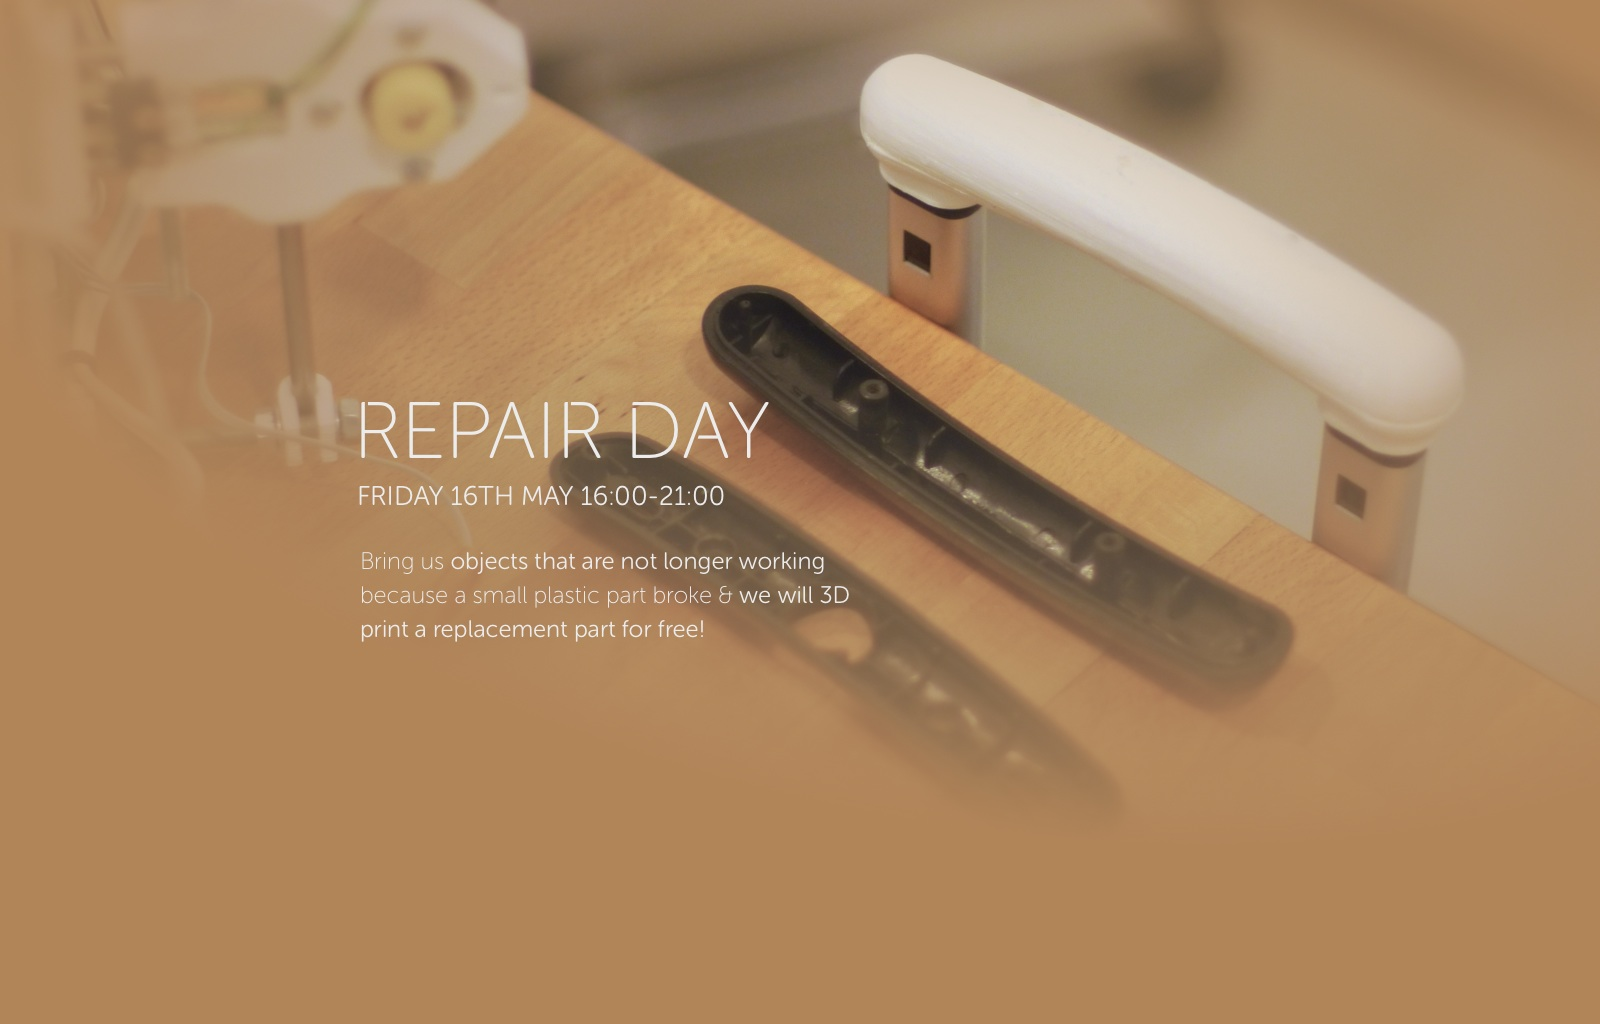
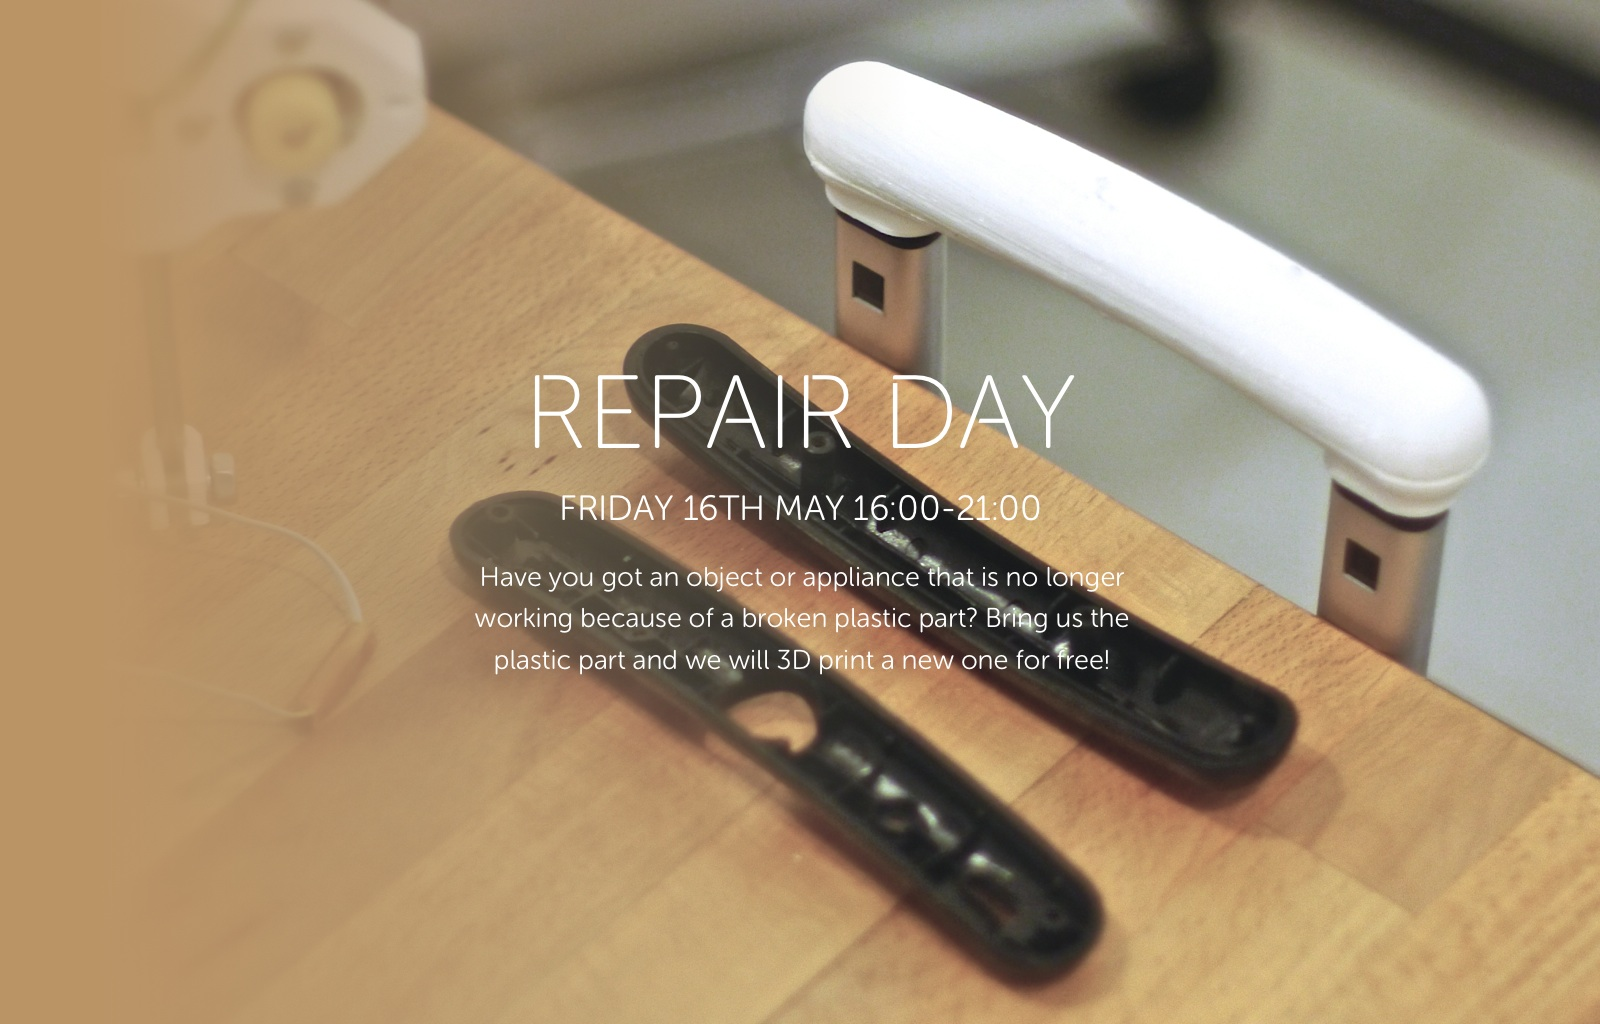
update event info

diff --git a/app/_posts/events/2014-05-16-EVENT-repair-day.md b/app/_posts/events/2014-05-16-EVENT-repair-day.md
@@ -3,7 +3,7 @@ title: Repair Day
 layout: single-event
 category: events
 permalink: /events/repair-day/
-excerpt: "Bring us objects that are not longer working because a small plastic part broke & we will 3D print a replacement part for free!"
+excerpt: "Have you got an object or appliance that is no longer working because of a broken plastic part? Bring us the plastic part and we will 3D print a new one for free!"
 hours: "Friday 16th May 16:00-21:00"
 description: "Introduction To 3D Printing Wednesday 14th May from 19:00 to 21:00"
 fee: "Free Event"
